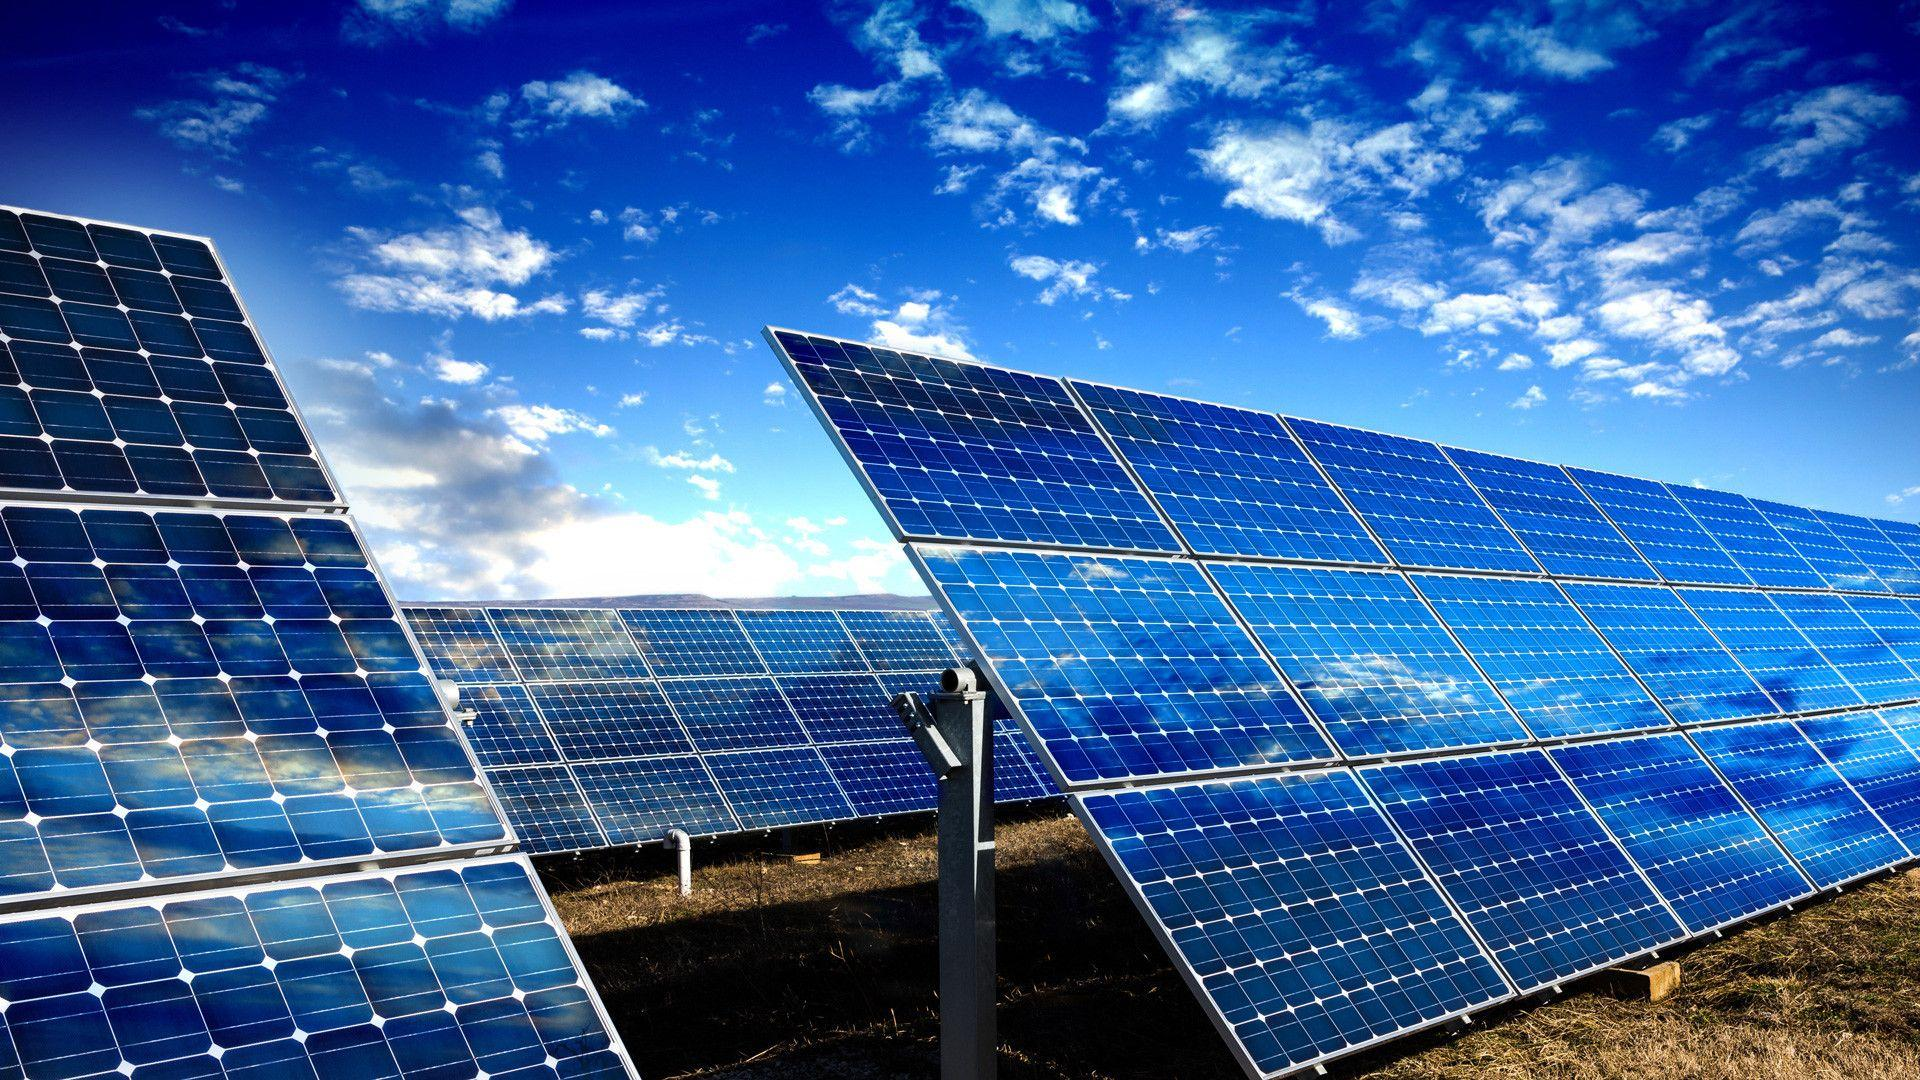
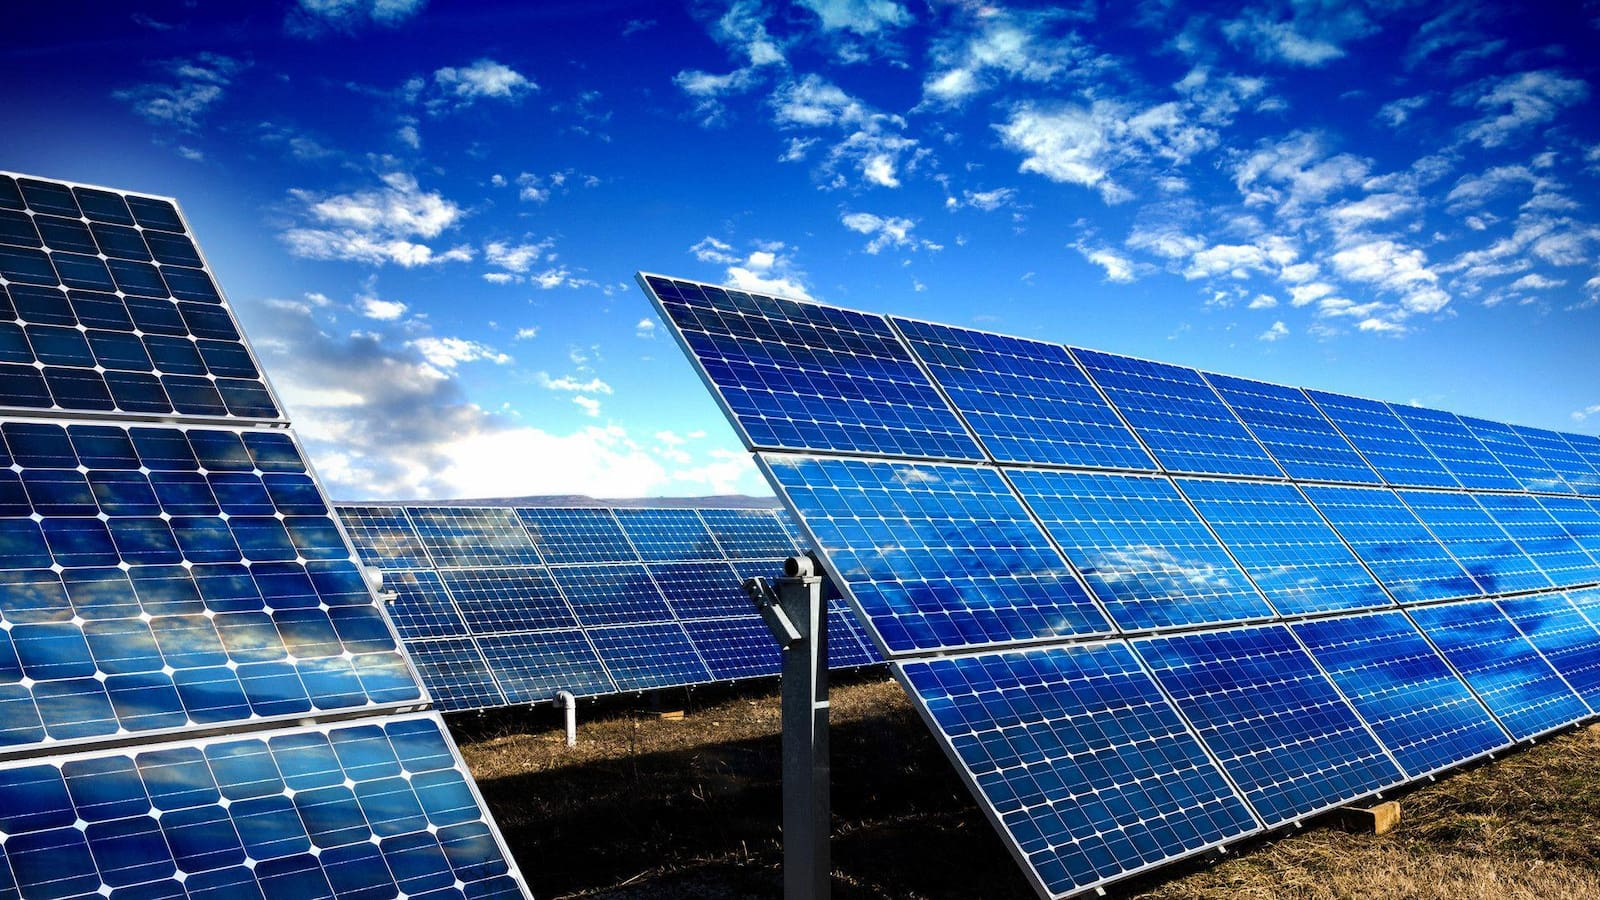
perf: compress cover image to reduce file size
- Resize cover-bg.jpg to 1600px width, quality 79 via Squoosh
- Reduces OG image weight and overall page load size

diff --git a/app/layout.tsx b/app/layout.tsx
@@ -17,7 +17,9 @@ const jakarta = Plus_Jakarta_Sans({
 export const metadata: Metadata = {
   metadataBase: new URL("https://volta-emagazine.vercel.app"),
   title: "Volta — Energi Masa Kini",
-  description: "E-Magazine interaktif tentang Energi & Perubahannya"
+  description:
+    "E-Magazine interaktif tentang Energi & Perubahannya — jelajahi 30 halaman dengan animasi flip seperti membaca buku sungguhan.",
+  authors: [{ name: "Salsabila Laily Amalina" }],
 };
 
 export default function RootLayout({